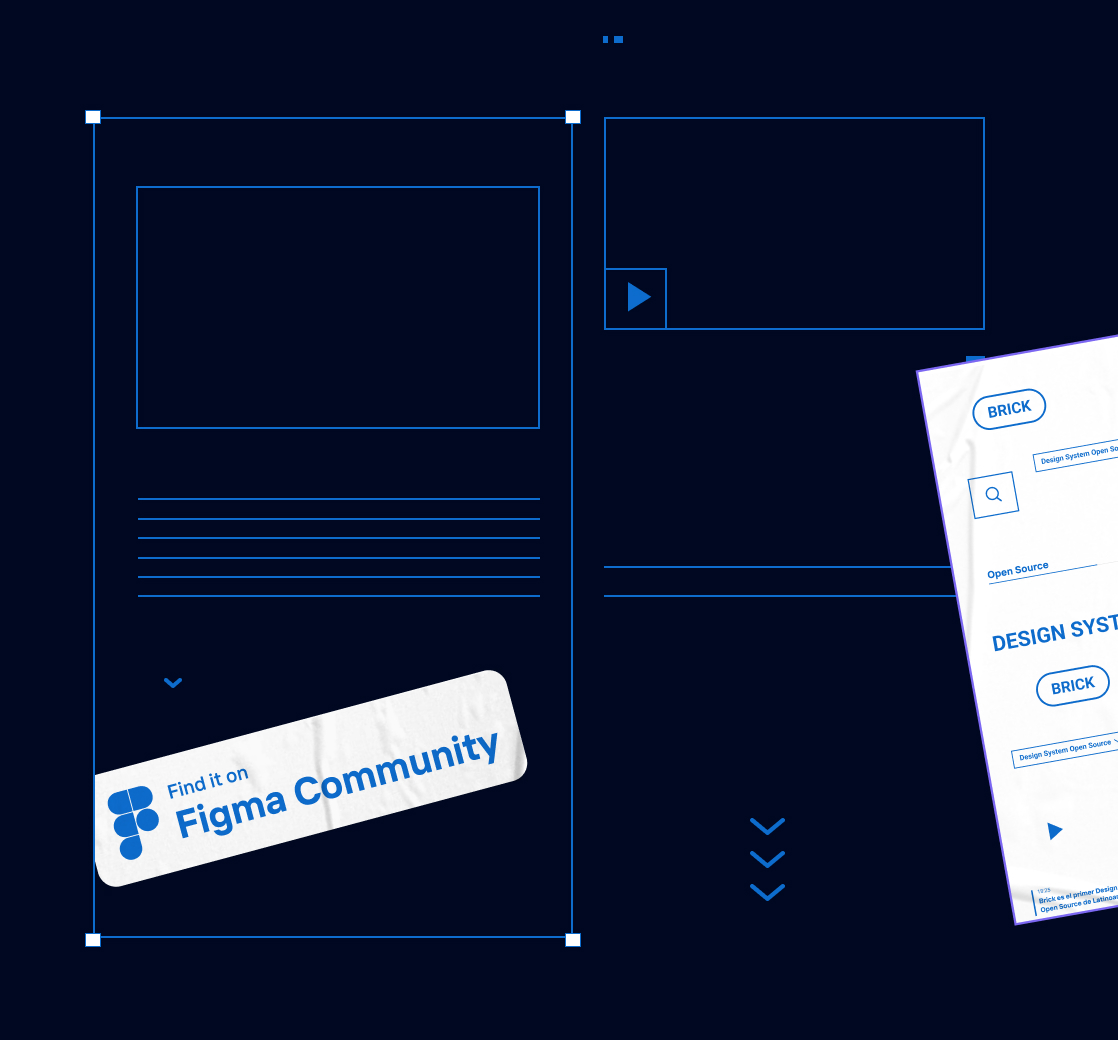
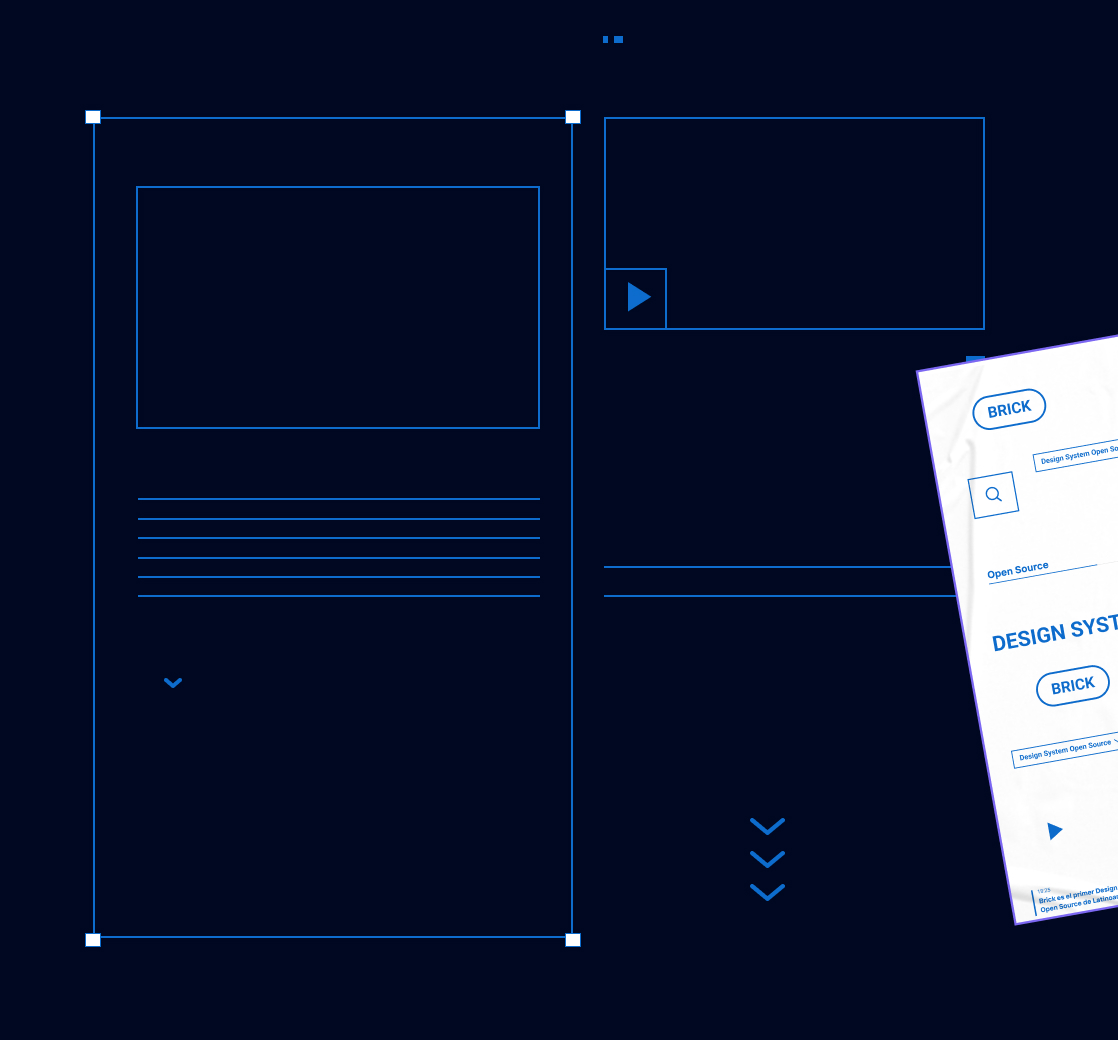
masivo

Changed region(s): [[0.0608, 0.6462, 0.4866, 0.8615]]

diff --git a/portfolio.html b/portfolio.html
@@ -43,7 +43,7 @@ body {
   border-left: 1px solid var(--border);
   border-right: 1px solid var(--border);
   padding-bottom: 70px;
-  overflow: hidden;
+  overflow: clip;
   position: relative;
 }
 
@@ -285,7 +285,8 @@ body {
 }
 
 .wid-cell:nth-child(3n) { border-right: none; }
-.wid-cell:nth-child(even) { }
+.wid-cell:last-child { border-bottom: none; border-right: none; }
+.wid-cell:nth-last-child(2):nth-child(odd) { border-bottom: none; }
 
 .wid-title {
   font-size: 17px;
@@ -737,7 +738,7 @@ body {
       <span class="proj-row-name">Essen+</span>
       <span class="proj-tagline">Loyalty, referrals and gamification for Essen's community.</span>
     </div>
-    <span class="proj-row-year">2024</span>
+    <span class="proj-row-year">2025</span>
   </div>
 
   <div class="case-block">
@@ -766,19 +767,19 @@ body {
 
   <div class="section-row"><span class="section-tag">What I did</span></div>
   <div class="wid-grid" style="grid-template-columns: 1fr 1fr;">
-    <div class="wid-cell" style="border-bottom: 1px dashed var(--dash);">
+    <div class="wid-cell" style="border-bottom: 1px dashed var(--dash); border-right: 1px dashed var(--dash);">
       <div class="wid-title">UI execution</div>
       <div class="wid-desc">Applied the existing design system across screens, improving and resolving layouts that the wireframes hadn't fully defined.</div>
     </div>
-    <div class="wid-cell" style="border-bottom: 1px dashed var(--dash);">
+    <div class="wid-cell" style="border-bottom: 1px dashed var(--dash); border-right: none;">
       <div class="wid-title">Design system contribution</div>
       <div class="wid-desc">Extended the DS with new components, tokens and definitions. Worked on consistency decisions across mobile and desktop.</div>
     </div>
-    <div class="wid-cell" style="border-right: 1px dashed var(--dash);">
+    <div class="wid-cell" style="border-right: 1px dashed var(--dash); border-bottom: none;">
       <div class="wid-title">Sign-up & validation flows</div>
       <div class="wid-desc">Designed the registration experience including social login, phone and DNI validation, edge cases and wait states up to 96 hours.</div>
     </div>
-    <div class="wid-cell">
+    <div class="wid-cell" style="border-right: none; border-bottom: none;">
       <div class="wid-title">Referrals & gamification</div>
       <div class="wid-desc">Designed the full referral experience: progress dashboard, Bronze/Silver/Gold levels, badges, points history and magic link sharing flow.</div>
     </div>
@@ -790,10 +791,10 @@ body {
       <img src="uploads/kf-logo.jpg" alt="KF Connect">
     </div>
     <div class="proj-row-info">
-      <span class="proj-row-name">KF Connect <span style="font-size:10px;font-weight:400;background:var(--bg);border:1px dashed var(--dash);border-radius:4px;padding:2px 7px;color:var(--fg-dim);margin-left:6px;vertical-align:middle;">Sorry :(</span></span>
+      <span class="proj-row-name">KF Connect</span>
       <span class="proj-tagline">A mobile-first platform for Kauffman Fellows.</span>
     </div>
-    <span class="proj-row-year">2024</span>
+    <span class="proj-row-year">2026</span>
   </div>
 
   <div id="kf-lock" style="border-bottom:1px dashed var(--dash);padding:32px 20px;text-align:center;">
@@ -898,14 +899,12 @@ body {
 
   <!-- ════════════════════ CONCEPTS & FUN ════════════════════ -->
   <div class="proj-row" style="border-color:#C0C0C0;">
-    <div class="proj-row-icon">
-      <img src="uploads/concepts-logo.jpg" alt="Concepts & fun">
-    </div>
+    <div style="width:72px;height:72px;flex-shrink:0;"></div>
     <div class="proj-row-info">
       <span class="proj-row-name">Concepts & fun</span>
       <span class="proj-tagline">Proposals, tests and playful ideas that stayed in Figma.</span>
     </div>
-    <span class="proj-row-year">2020–2025</span>
+    <span class="proj-row-year"></span>
   </div>
 
   <div class="case-block">
@@ -925,7 +924,9 @@ body {
 
   <div class="img-row-3">
     <img src="uploads/concepts-screen-1.jpg" style="width:100%;height:460px;object-fit:cover;object-position:center;display:block;" alt="Concepts Screen 1">
-    <img src="uploads/concepts-screen-2.jpg" style="width:100%;height:460px;object-fit:cover;object-position:center;display:block;" alt="Concepts Screen 2">
+    <div style="background:#000000;height:460px;display:flex;align-items:center;justify-content:center;border-right:1px dashed #C0C0C0;">
+      <img src="uploads/concepts-screen-2.gif" style="display:block;max-height:100%;max-width:100%;object-fit:contain;" alt="Concepts Screen 2">
+    </div>
     <img src="uploads/concepts-screen-3.jpg" style="width:100%;height:460px;object-fit:cover;object-position:center;display:block;" alt="Concepts Screen 3">
   </div>
 